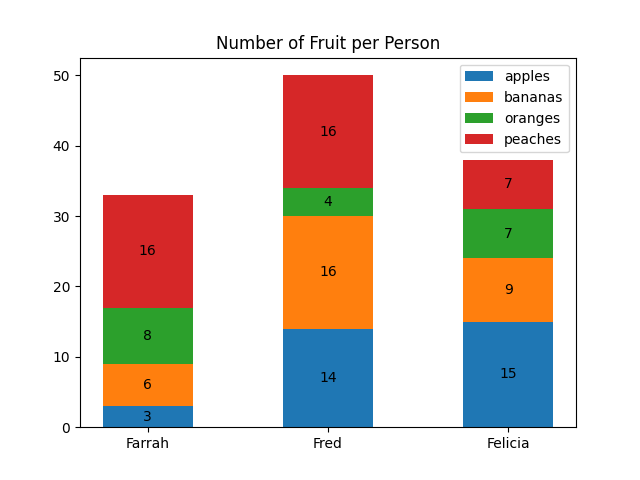
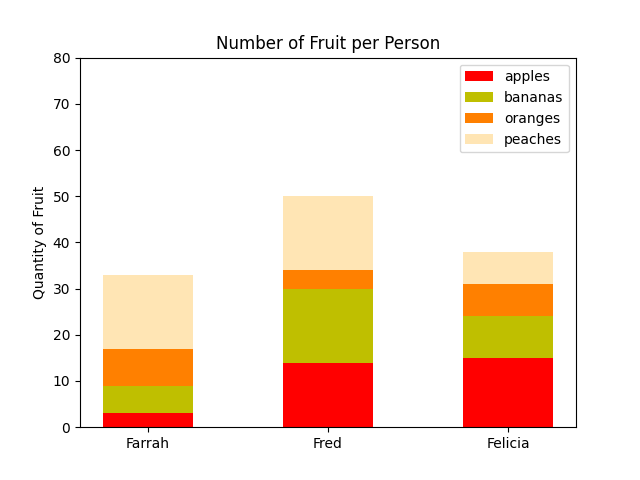
adding advanced tasks

diff --git a/math/plotting/6-bars.py b/math/plotting/6-bars.py
@@ -8,10 +8,10 @@ fruit = np.random.randint(0, 20, (4,3))
 people = ['Farrah', 'Fred', 'Felicia']
 
 fruit_counts = {
-    'apples': fruit[0],
-    'bananas': fruit[1],
-    'oranges': fruit[2],
-    'peaches': fruit[3]
+    'apples': [fruit[0], 'r'],
+    'bananas': [fruit[1], 'y'],
+    'oranges': [fruit[2], '#ff8000'],
+    'peaches': [fruit[3], '#ffe5b4']
 }
 
 width = 0.5
@@ -20,12 +20,12 @@ fig, ax = plt.subplots()
 bottom = np.zeros(3)
 
 for fruit, fruit_count in fruit_counts.items():
-    p = ax.bar(people, fruit_count, width, label=fruit, bottom=bottom)
-    bottom += fruit_count
-
-    ax.bar_label(p, label_type='center')
+    p = ax.bar(people, fruit_count[0], width, label=fruit, bottom=bottom, color=fruit_count[1])
+    bottom += fruit_count[0]
 
 ax.set_title('Number of Fruit per Person')
 ax.legend()
 
+plt.ylim([0, 80])
+plt.ylabel('Quantity of Fruit')
 plt.savefig('6-bars.png')

diff --git a/math/plotting/101-pca.py b/math/plotting/101-pca.py
@@ -1,0 +1,31 @@
+#!/usr/bin/env python3
+from mpl_toolkits.mplot3d import Axes3D
+import matplotlib.pyplot as plt
+import numpy as np
+
+data = np.load("data.npy")
+labels = np.load("labels.npy")
+
+data_means = np.mean(data, axis=0)
+norm_data = data - data_means
+_, _, Vh = np.linalg.svd(norm_data)
+pca_data = np.matmul(norm_data, Vh[:3].T)
+
+fig = plt.figure()
+ax = fig.add_subplot(111, projection='3d')
+
+for i in range(len(pca_data)):
+    if labels[i] == 0:
+        color = 'b'
+    elif labels[i] == 1:
+        color = 'r'
+    else:
+        color = 'y'
+    ax.scatter(pca_data[i][0], pca_data[i][1], pca_data[i][2], color=color)
+
+ax.set_xlabel('U1')
+ax.set_ylabel('U2')
+ax.set_zlabel('U3')
+plt.title('PCA of Iris Dataset')
+plt.plasma()
+plt.savefig('101-pca.png')

diff --git a/math/plotting/100-gradient.py b/math/plotting/100-gradient.py
@@ -1,0 +1,16 @@
+#!/usr/bin/env python3
+import numpy as np
+import matplotlib.pyplot as plt
+
+np.random.seed(5)
+
+x = np.random.randn(2000) * 10
+y = np.random.randn(2000) * 10
+z = np.random.rand(2000) + 40 - np.sqrt(np.square(x) + np.square(y))
+
+sc = plt.scatter(x, y, c=z)
+plt.suptitle("Mountain Elevation")
+plt.xlabel('x coordinate (m)')
+plt.ylabel('y coordinate (m)')
+plt.colorbar(sc, label='elevation (m)')
+plt.savefig("100-gradient.png")
